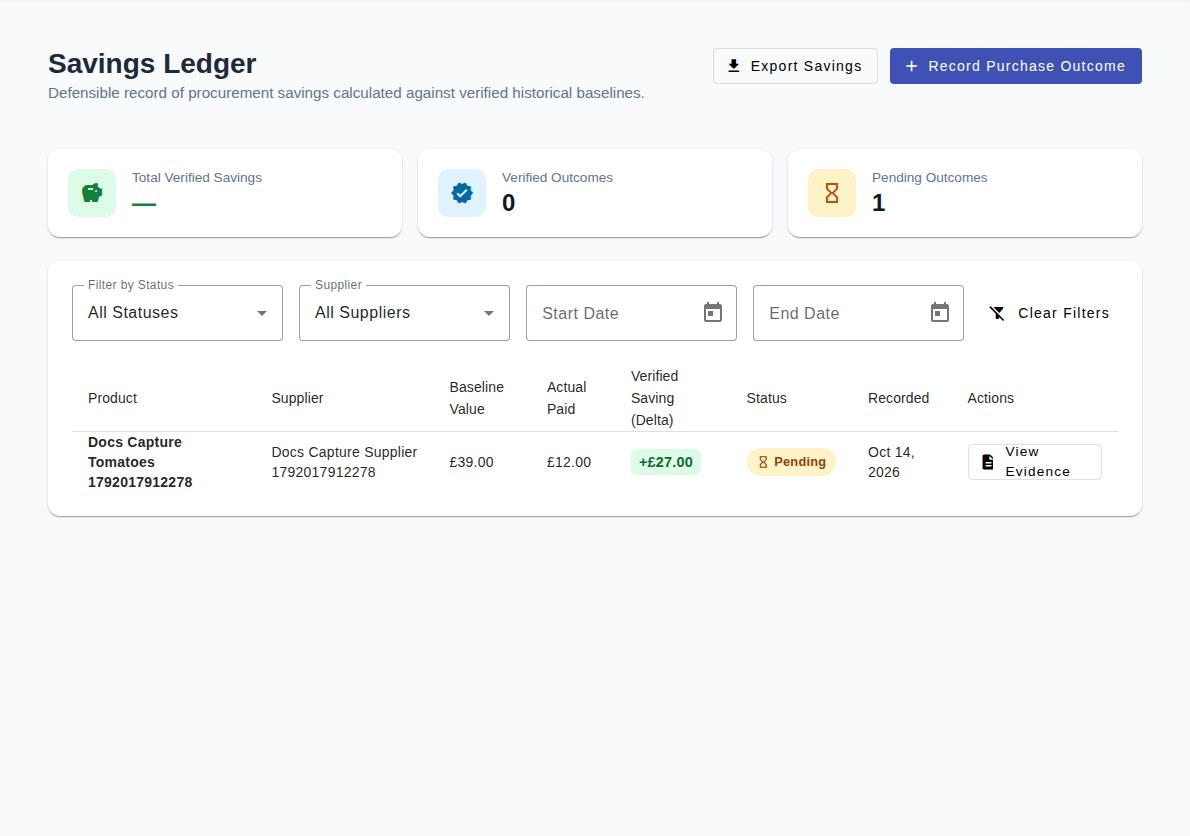
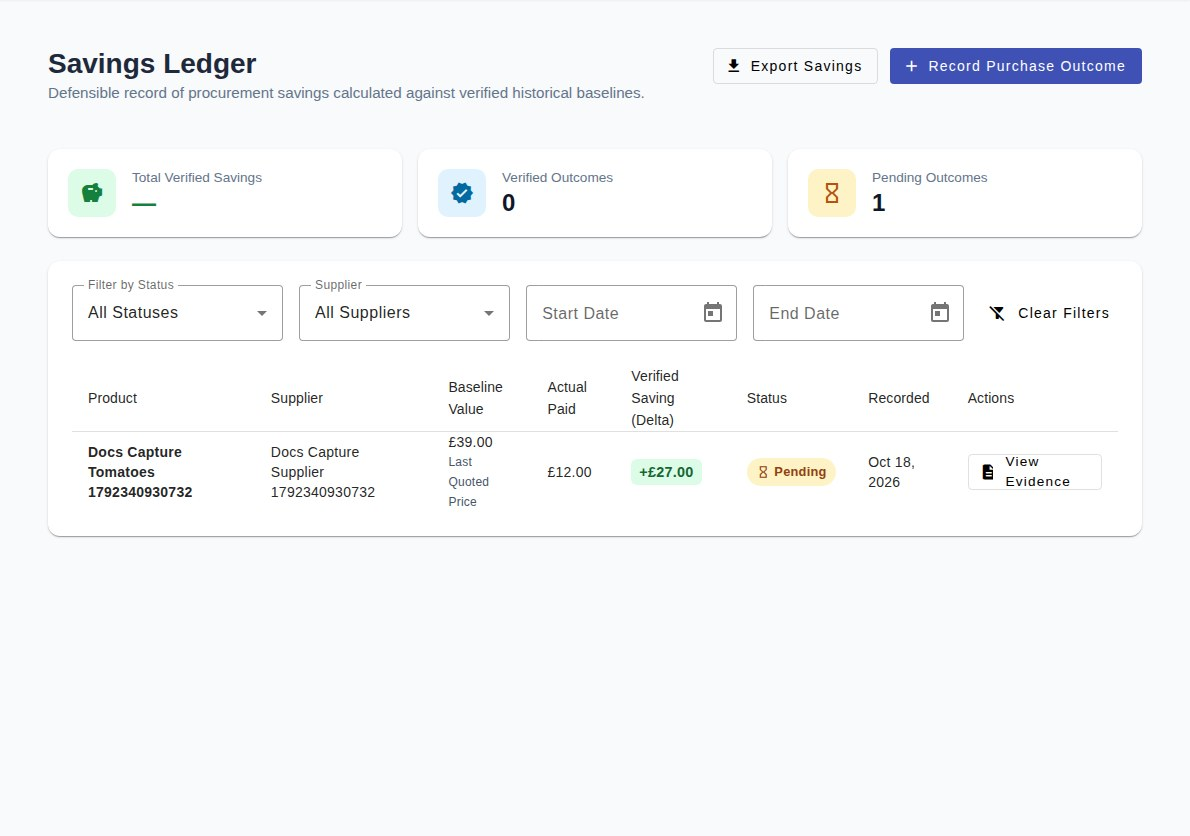
docs(user): savings baseline is the last PO price; record outcome from a PO
Regenerated 13-savings-ledger and 13b-outcome-capture from the CI
regenerated-doc-screenshots artifact (the only two over the drift limit).

diff --git a/docs/user/user-documentation.md b/docs/user/user-documentation.md
@@ -614,18 +614,18 @@ Reached from **Create Order** on the order list (blank), **From approved request
 | 3 | **+ Record Purchase Outcome button** | Opens the outcome capture form (below) to record a purchase and automatically calculate savings. |
 | 4 | **Stats cards** | Three summary cards: **Total Verified Savings**, **Verified Outcomes** (count), **Pending Outcomes** (count). |
 | 5 | **Filters** | Status (All/Verified/Pending), supplier, and date range. **Clear Filters** resets all. |
-| 6 | **Savings table** | Each row: product, supplier, baseline value, actual paid, verified saving (delta), status, and recorded date. Click **View Evidence** to drill into the full calculation. |
+| 6 | **Savings table** | Each row: product, supplier, baseline value (with the baseline policy used beneath it, e.g. "Last PO Price"), actual paid, verified saving (delta), status, and recorded date. Click **View Evidence** to drill into the full calculation. |
 | 7 | **Empty state** | When no savings exist, "No savings recorded yet" with a **+ Record First Purchase** link. |
 
 ### Record Purchase Outcome
 
-Reached from **Record Purchase** on any Smart Compare offer, or **+ Record Purchase Outcome** on the ledger itself.
+Reached from **Record Purchase** on any Smart Compare offer, or **+ Record Purchase Outcome** on the ledger itself. To record what a purchase order bought, use **Record outcome** on the order instead (below) — it fills every line for you.
 
 ![Record Purchase Outcome](screenshots/13b-outcome-capture.jpg)
 
 | # | Element | Description |
 |---|---------|-------------|
-| 1 | **Historical Baseline Note** | States which baseline policy will be used to compute the saving (e.g. "Last Paid Price"). |
+| 1 | **Historical Baseline Note** | Explains the baseline: the last purchase-order price for the product, or the last quoted price when the product has no earlier purchase order. |
 | 2 | **Product / Supplier** | Pre-filled when arriving from Smart Compare. |
 | 3 | **Actual Quantity Ordered / Base Unit** | What you actually bought, in the product's normalised unit. |
 | 4 | **Actual Unit Price / Currency / Total Amount Paid** | What you actually paid — always with an explicit currency. |
@@ -634,6 +634,18 @@ Reached from **Record Purchase** on any Smart Compare offer, or **+ Record Purch
 | 7 | **Notes / Reference ID** | Optional free text, e.g. a PO number. |
 | 8 | **Record Outcome & Compute Saving** | Saves the outcome and immediately computes the saving against the baseline, taking you to the Saving Evidence screen. If the selected product has no price history yet, the form flags that no baseline is available for that product. |
 
+### Record Outcome from a Purchase Order
+
+**Route:** `/orders/:id/record-outcome` — the **Record outcome** button on a submitted, confirmed, received, or closed purchase order (owner and buyer).
+
+| # | Element | Description |
+|---|---------|-------------|
+| 1 | **Baseline note** | Savings are measured against the last purchase-order price for each product, excluding this order. |
+| 2 | **Delivery Outcome** | Pre-selected from the order status (Ordered, Partially Delivered, or Delivered); change it if needed. |
+| 3 | **One line per order line** | Each line shows the pack conversion (e.g. "2 × pack of 30 piece = 60 piece"), with the quantity in base units and the total paid (excluding tax) pre-filled and editable. Untick a line to skip it. |
+| 4 | **Lines that cannot be recorded** | Lines not linked to a catalogue product, with nothing ordered, or already recorded are greyed out; an already-recorded line links to its saving. |
+| 5 | **Save outcomes** | Records one purchase outcome per selected line, each linked to its order line. A line can be recorded only once. |
+
 ### Saving Evidence & Calculation
 
 ![Saving Evidence](screenshots/13c-saving-evidence.jpg)
@@ -641,9 +653,11 @@ Reached from **Record Purchase** on any Smart Compare offer, or **+ Record Purch
 | # | Element | Description |
 |---|---------|-------------|
 | 1 | **Verification banner** | "Pending Verification" (amber, with a **Verify Saving** button) until an owner or buyer verifies it, after which it reads "Verified (Immutable)" (green, with a lock icon) and the record can no longer be edited or deleted. |
-| 2 | **Saving Summary** | Net saving, actual vs. baseline total value, baseline unit price, baseline policy used, status, recorded/verified dates, and the calculation version. |
+| 2 | **Saving Summary** | Net saving, actual vs. baseline total value, baseline unit price, baseline policy used, the purchase order the baseline came from (for "Last PO Price", linked), status, recorded/verified dates, and the calculation version. |
 | 3 | **Purchase Details** | The full purchase record as entered. |
 | 4 | **Calculation Snapshot** | The exact formula applied ("Baseline Value − Actual Paid = Net Saving") and the competing offers that were on the table at compare time — the full evidence chain from quotation → match → offer → purchase → saving. |
+
+**Key concept — the baseline:** the saving is measured against the **last purchase-order price** for the product: the newest submitted, confirmed, received, or closed order line in the same base unit, excluding the order being recorded. PO prices are per pack, so the baseline is scaled to the outcome's base units (a carton of 30 at 172 against 60 pieces gives a baseline of 344). Without an earlier purchase order, the baseline falls back to the **last quoted price**, then the 6-month quoted average; otherwise no baseline is available.
 
 **Key concept — Verified Savings:**
 - Verified savings are **immutable** — once verified, they cannot be edited or deleted. If a correction is needed, a new adjustment record is created.

diff --git a/docs/user/user-flows.md b/docs/user/user-flows.md
@@ -169,6 +169,7 @@ journey
 - `/home` -> **Basket Split** -> `/offers/basket-split` -> choose two suppliers + basket lines -> optimise -> `/offers/basket-split/:id`
 - `/home` -> **Alerts Inbox** -> `/alerts` -> open alert action -> Smart Compare, supplier detail, or Product Price Intelligence
 - `/home` -> **Savings Ledger** -> `/savings` -> **Record Purchase Outcome** -> `/savings/outcome-capture` -> compute saving -> `/savings/:id/evidence`
+- `/orders/:id` -> **Record outcome** -> `/orders/:id/record-outcome` -> save outcomes (one per PO line, baseline = last PO price) -> `/savings`
 - `/savings` -> **View Evidence** -> `/savings/:id/evidence`; `/savings/:id` is an alias
 - `/savings` -> **Export Savings** -> `/savings/export` -> generate export -> `/savings/export/:id`
 
